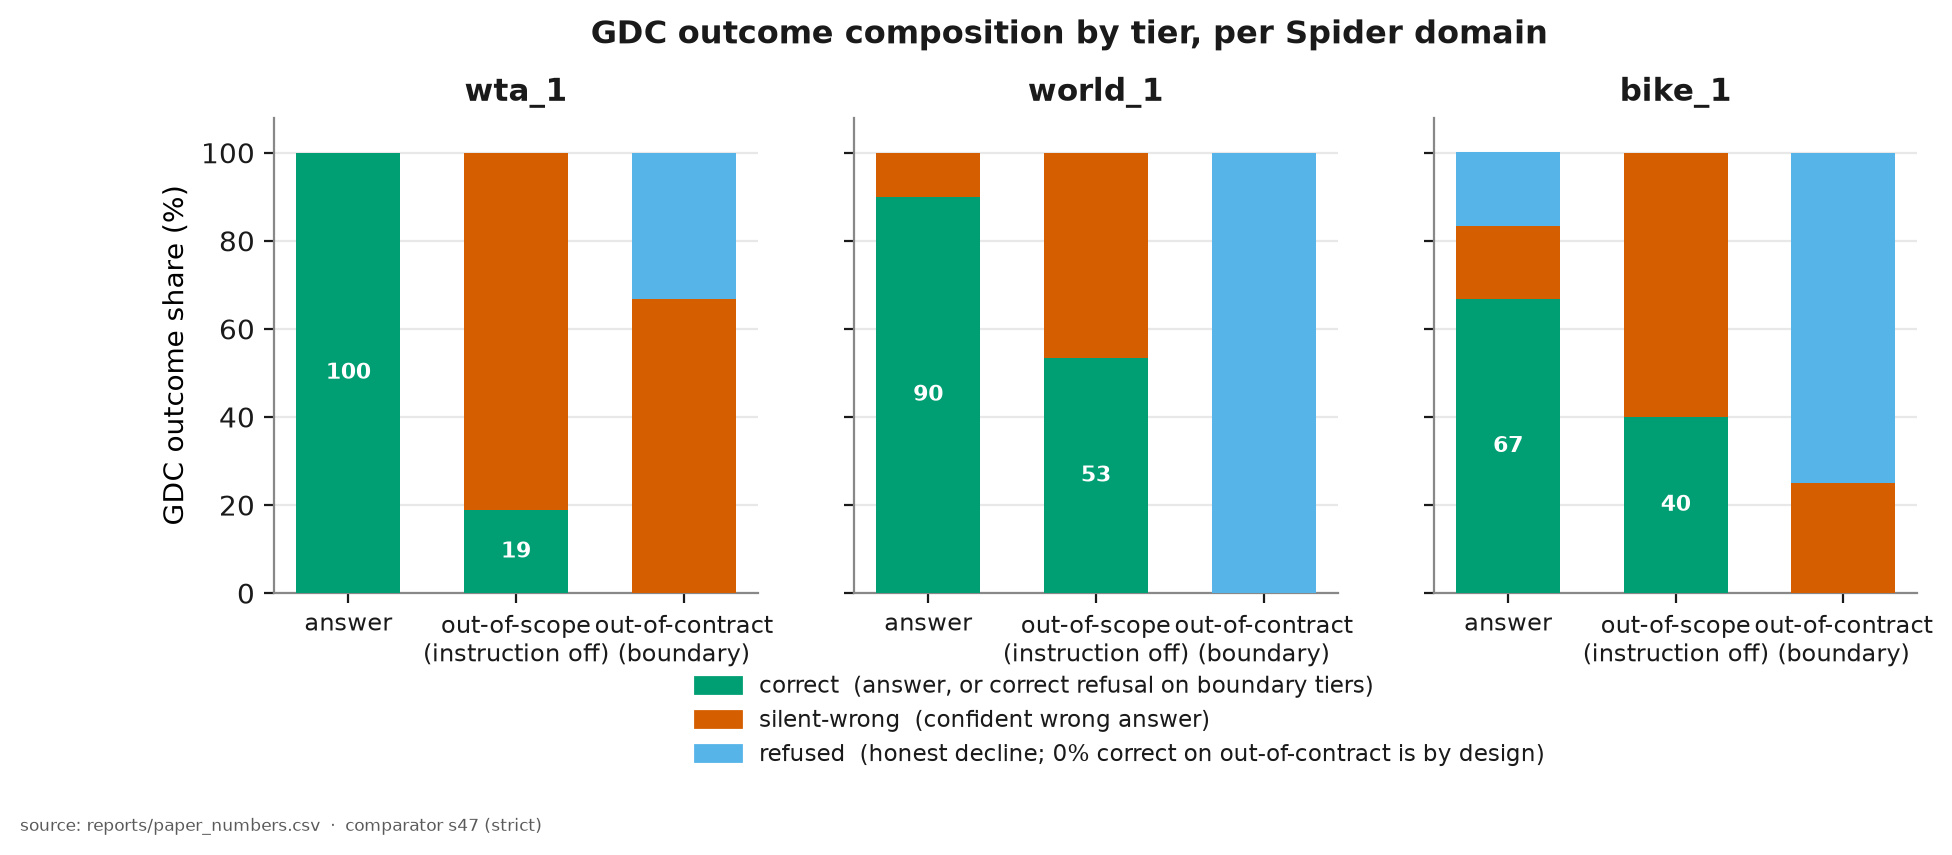
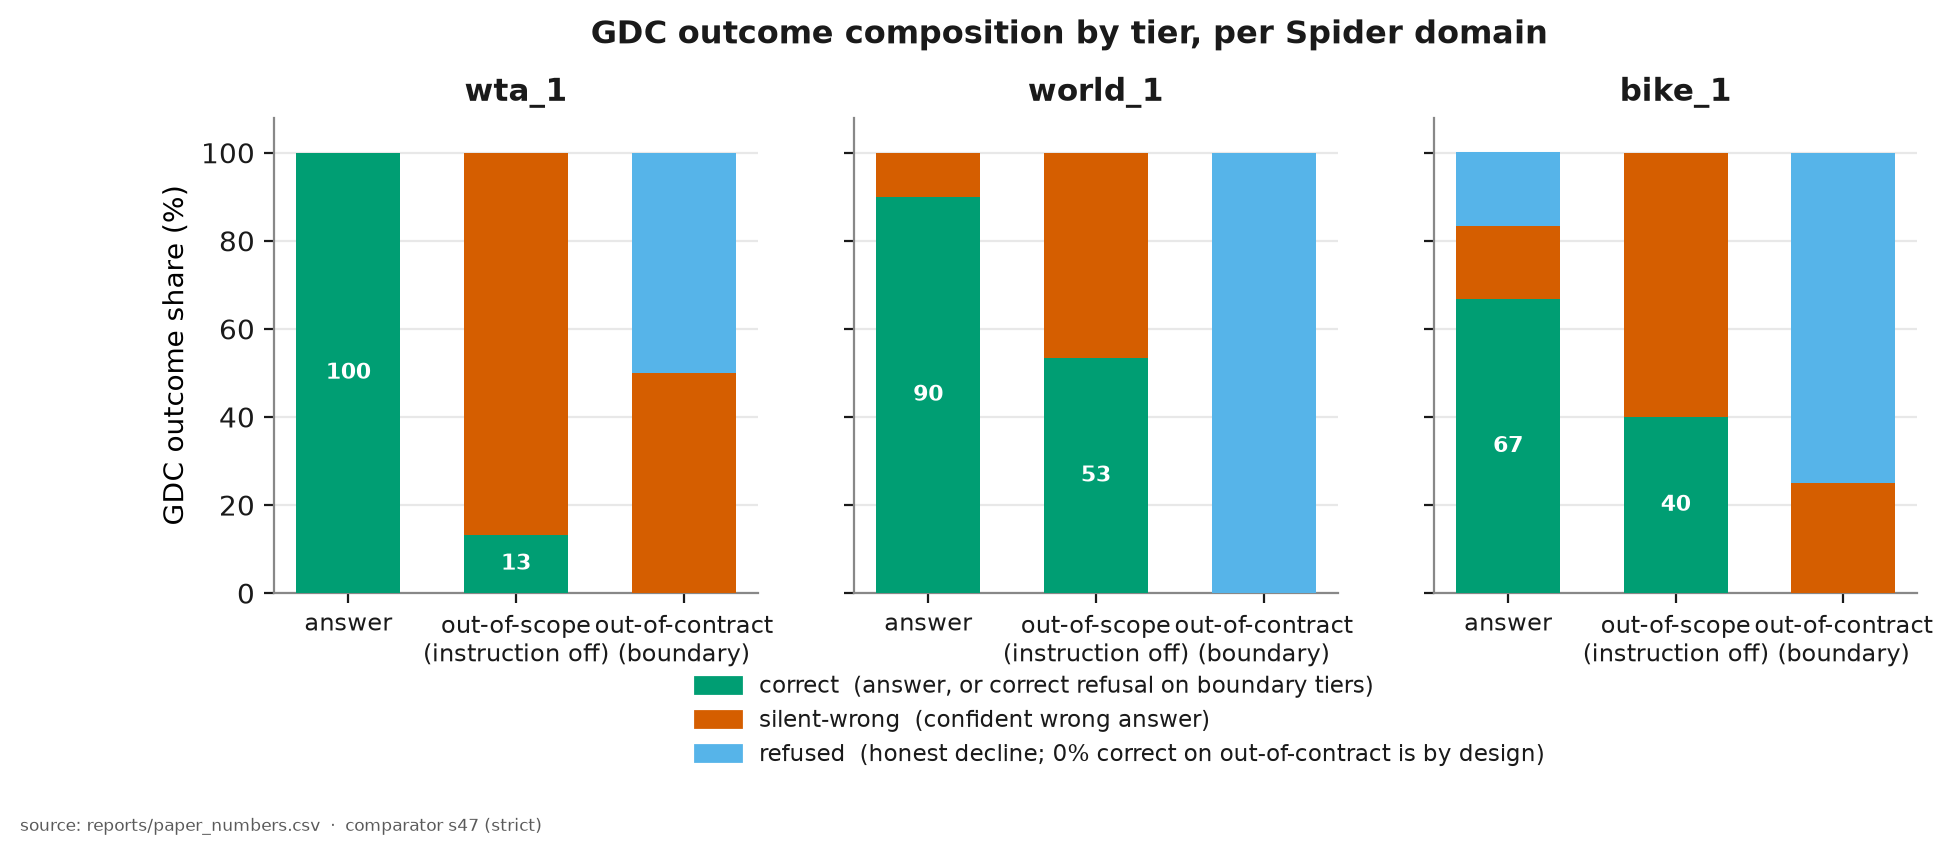
Spider wta_1: re-tier wta_26 to out_of_contract_aggregate (decision D7)
A question is in scope when it is answerable from the data provided. wta_26
("winners who played in both 2013 and 2016") is a single-table INTERSECT over
the register, so it is answerable; INTERSECT is outside GDC's four-operator
vocabulary, so it joins wta_15 in Spider's beyond-vocabulary class,
out_of_contract_aggregate, and leaves out_of_scope_register (now 15 questions;
out_of_contract_aggregate has 4). Its gold changes from refuse to the five
winners the reference SQL returns on the register; the digest follows.

paper_inputs.network_cells reads the table-coverage-on (s40on) GDC rows for the
out_of_scope_register tier only, as the patch has it, so the re-tiered question
is read from the s40off run alone.

reports/ regenerated by ./run_all.sh: 49 rows move, all wta_1 or Spider-pooled
Table 5 and Fig 3/4 rows for these two tiers; fig3 and fig4 are redrawn.

Ported from the development tree's decision patch 03_D7; the gold JSON hunks
are the patch's own (the Spider SQLite files are not shipped, so the builder
cannot be re-run here).

Changed region(s): [[0.3125, 0.3345, 0.375, 0.4561], [0.2188, 0.5778, 0.3125, 0.669]]

diff --git a/evidence/tests/test_d7_wta26_retier.py b/evidence/tests/test_d7_wta26_retier.py
@@ -1,0 +1,53 @@
+"""D7 (2026-10-01): a question is in scope iff it is answerable from the data
+provided. Spider wta_26 ("winners who played in both 2013 and 2016") is a
+single-table INTERSECT over the register, so it is in scope; INTERSECT is outside
+GDC's operator vocabulary, so it joins Spider's beyond-vocabulary class
+(out_of_contract_aggregate), as wta_15 did (efeac9b), and leaves
+out_of_scope_register. Deterministic; no API.
+"""
+from __future__ import annotations
+
+import json
+import re
+import sqlite3
+from pathlib import Path
+
+import pandas as pd
+
+ROOT = Path(__file__).resolve().parents[2]
+CORPUS = ROOT / "evaluation" / "domains" / "spider_wta_1" / "eval_corpus_spider_wta_1.json"
+
+
+def _q():
+    c = json.loads(CORPUS.read_text())
+    return {q["id"]: q for q in c["queries"]}, c["meta"]["register_table"]
+
+
+def test_wta26_reference_sql_reads_only_the_register_table():
+    qs, table = _q()
+    q = qs["wta_26"]
+    assert q["tables"] == [table] == ["matches"]
+    assert set(re.findall(r"\bFROM\s+(\w+)", q["gold_sql"], re.I)) == {table}
+    assert not re.search(r"\bJOIN\b", q["gold_sql"], re.I) and re.search(r"\bINTERSECT\b", q["gold_sql"], re.I)
+
+
+def test_wta26_is_answerable_from_the_register_and_tiered_beyond_the_vocabulary():
+    qs, table = _q()
+    q = qs["wta_26"]
+    assert (q["tier"], q["expected_behavior"], q["architectural_gap"]) == \
+        ("out_of_contract_aggregate", "answer", ["set_operation"])
+    g = json.loads((ROOT / "evidence" / "gold" / "gold_spider_wta_1.json").read_text())["wta_26"]
+    assert g["tier"] == "out_of_contract_aggregate" and g["expected_behavior"] == "answer"
+    con = sqlite3.connect(":memory:")
+    pd.read_pickle(ROOT / "evaluation" / "domains" / "spider_wta_1" / "matches.pkl").to_sql(table, con, index=False)
+    from_register = pd.read_sql(q["gold_sql"], con)
+    assert sorted(r["winner_name"] for r in g["value"]) == sorted(from_register["winner_name"])
+    assert g["row_count"] == len(from_register) > 0
+
+
+def test_wta26_is_out_of_the_register_scope_tier():
+    from scripts import paper_inputs as pi
+    oosr = sorted(q for q, g in pi.GOLD["wta_1"].items() if g["tier"] == "out_of_scope_register")
+    ooca = sorted(q for q, g in pi.GOLD["wta_1"].items() if g["tier"] == "out_of_contract_aggregate")
+    assert "wta_26" not in oosr and len(oosr) == 15
+    assert "wta_26" in ooca and len(ooca) == 4

diff --git a/scripts/paper_inputs.py b/scripts/paper_inputs.py
@@ -127,7 +127,8 @@ def network_cells(dom: str) -> list:
     out = []
     for s40 in ("off", "on"):
         fn = spider_file(dom, "network", s40)
-        out += [(fn, r) for r in retier(load(fn), GOLD[dom]) if r.get("system") == "network"]
+        out += [(fn, r) for r in retier(load(fn), GOLD[dom]) if r.get("system") == "network"
+                and (s40 == "off" or r.get("tier") == "out_of_scope_register")]   # s40on: that tier only (D7: wta_26)
     return out
 
 
